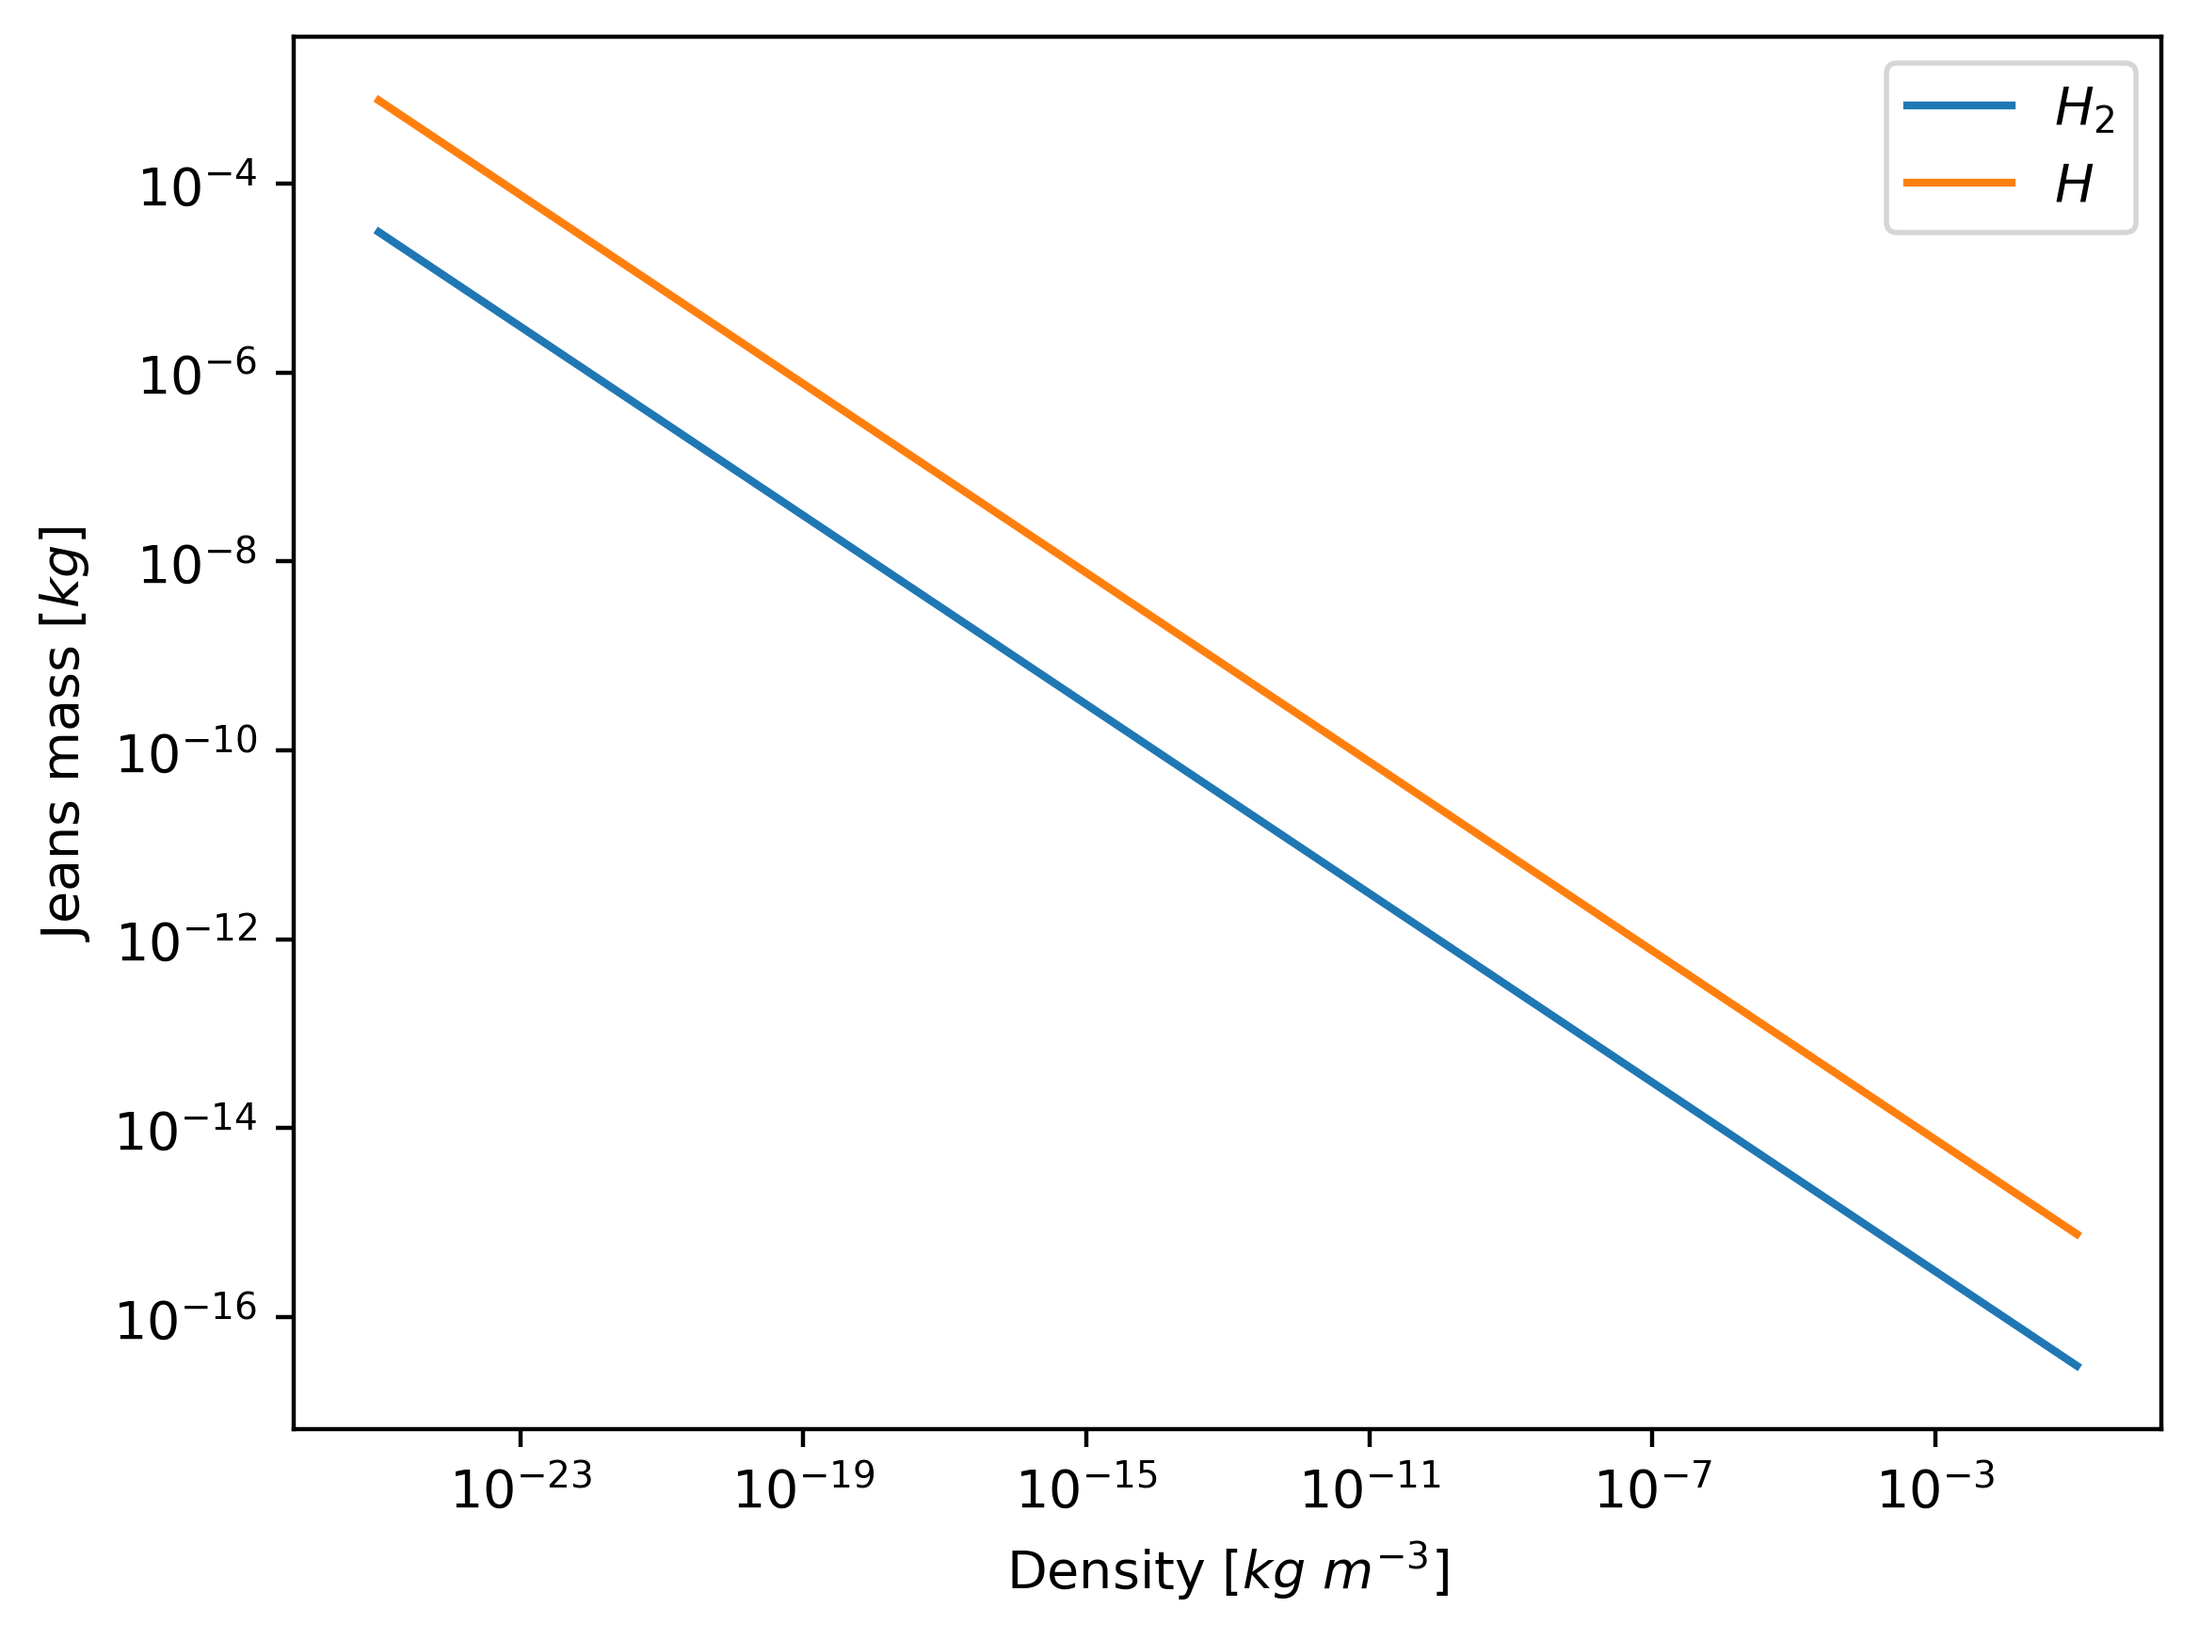
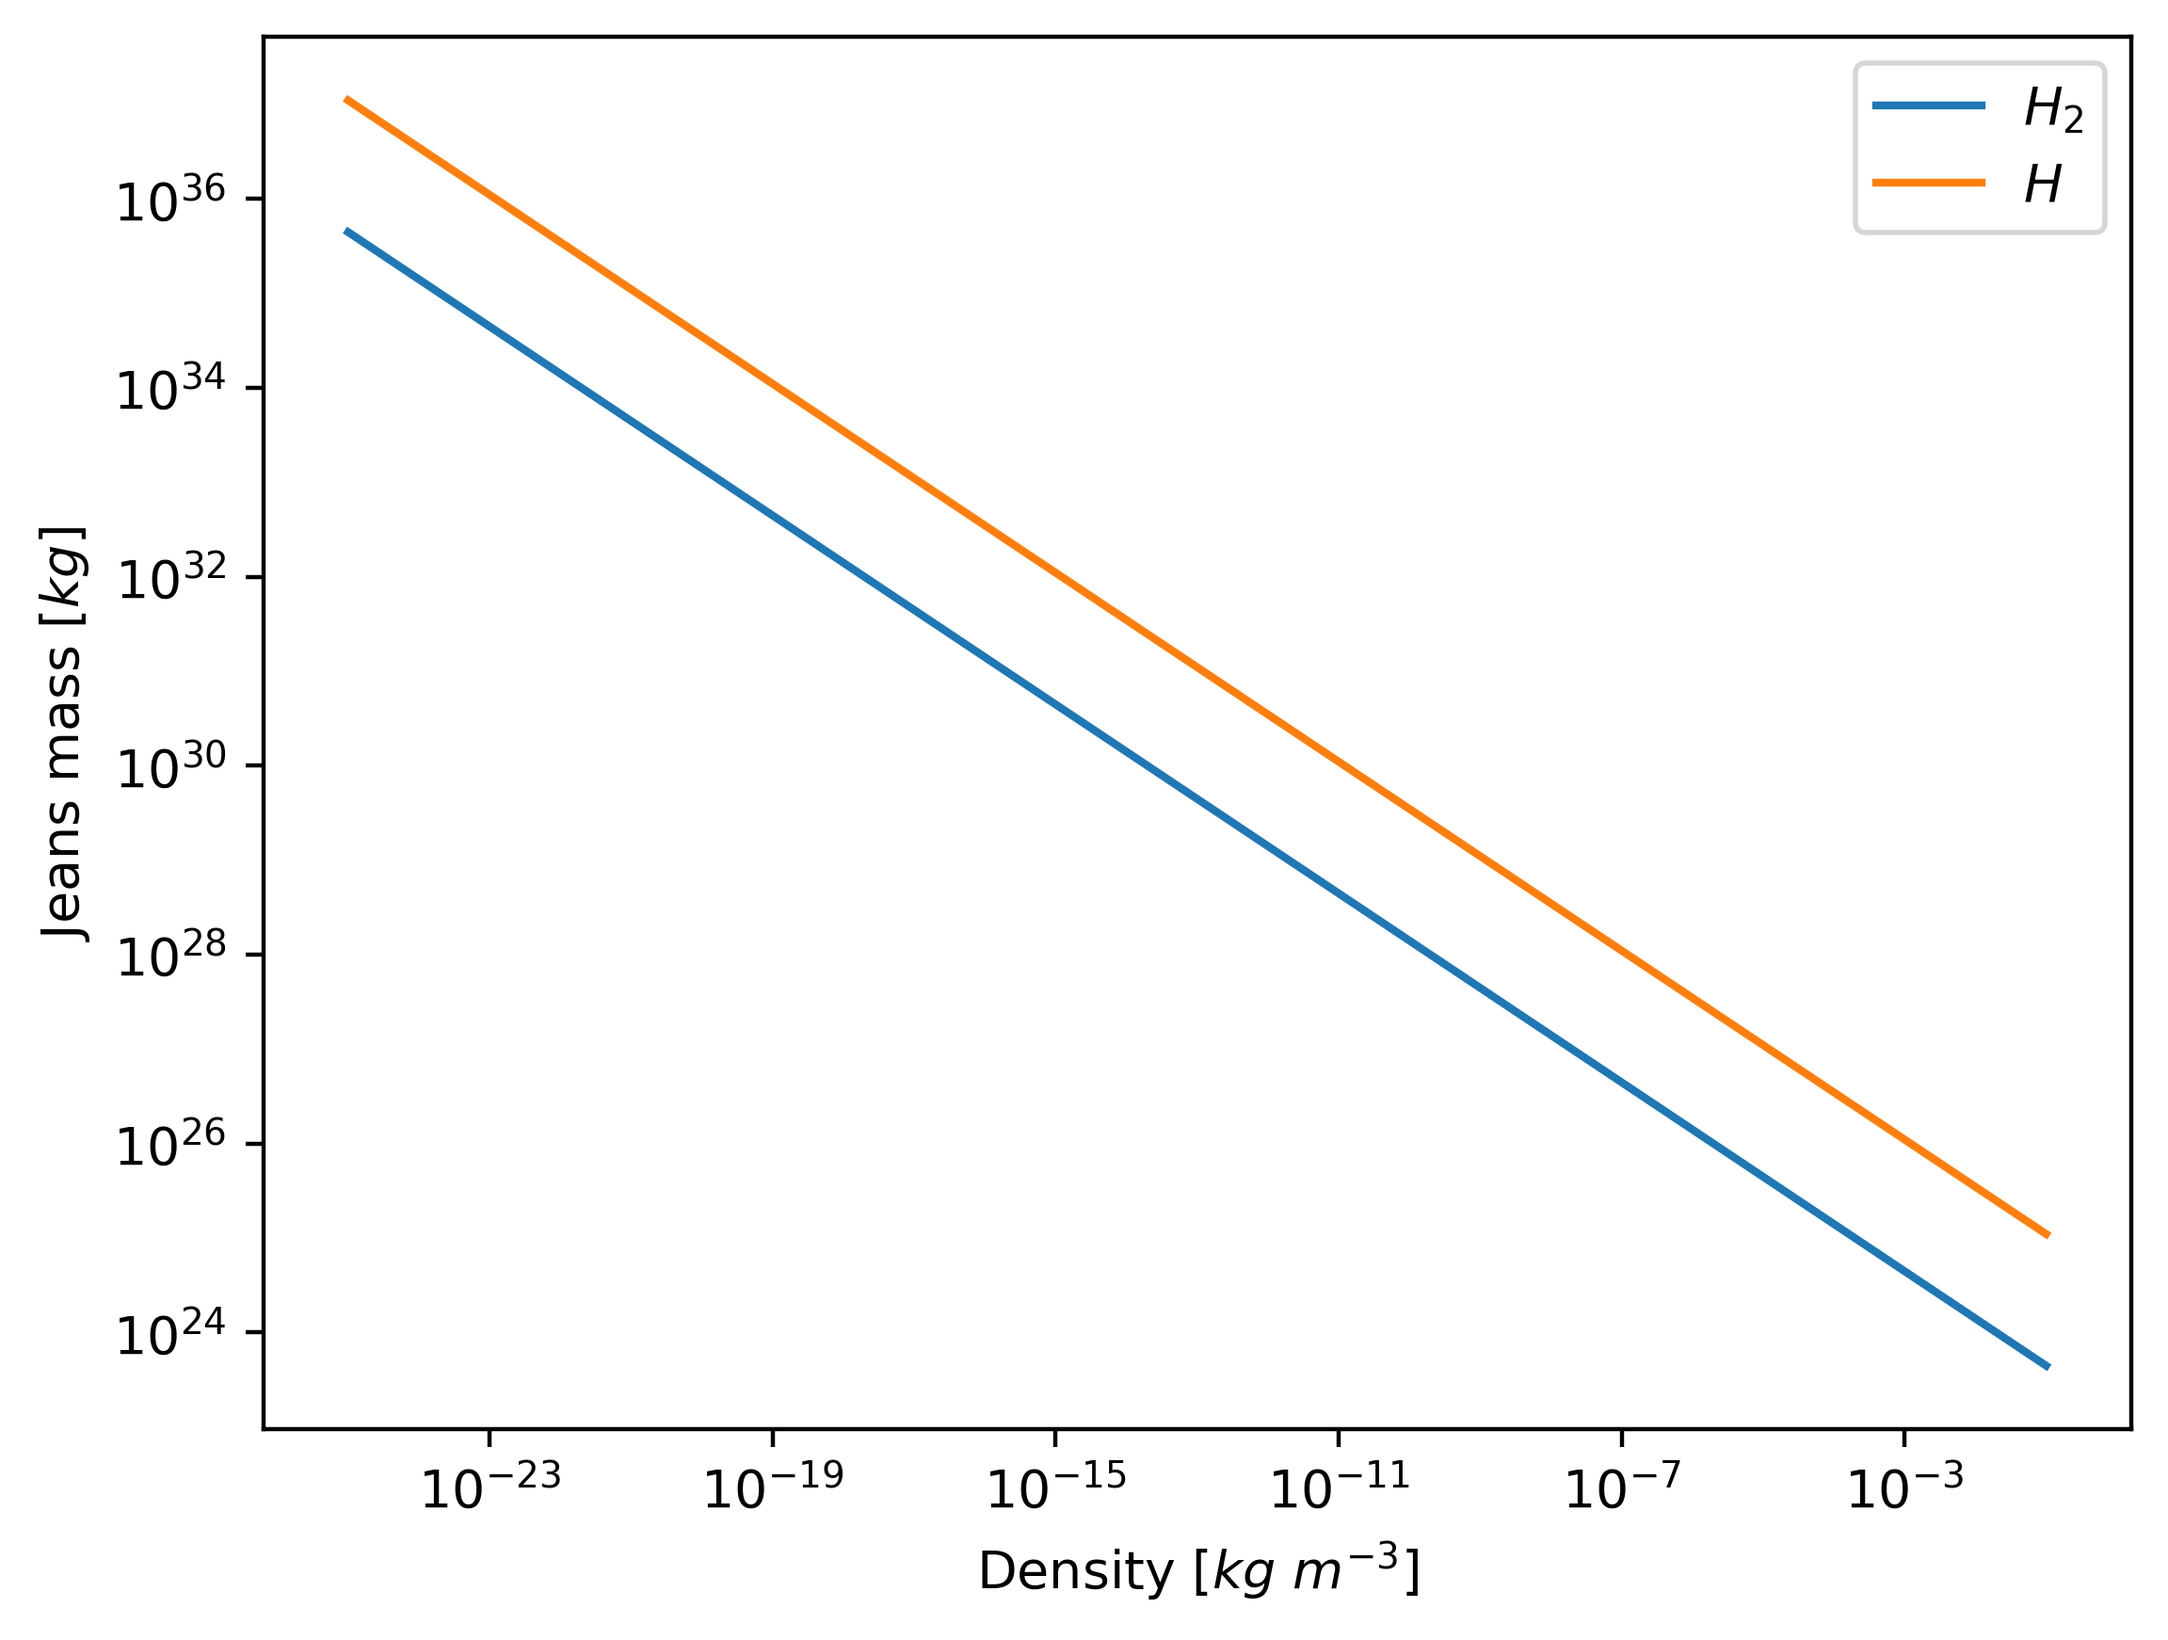
Fixed mistakes in the code after corrections

diff --git a/ex1/sf1.py b/ex1/sf1.py
@@ -25,11 +25,11 @@ Cloud 2: Neutral Hydrogen, T=100K and density 1e-23 g/cm^3
 1: What is the Jeans Radius and the corresponding Jeans mass for each cloud?
 """
 T_1=20
-mu_1=2.38*const.u
+mu_1=2.38
 rho_1=1e-15 #kg/m^3
 
 T_2=100
-mu_2=1.4*const.u
+mu_2=1.4
 rho_2=1e-20 #kg/m^3
 
 #Critical density of 1e-13 g/cm^3
@@ -40,7 +40,7 @@ rho_crit=1e-10 #g/cm^3
 #Function to calculate the Isothermal sound speed from the temperature and mean molecular weight.
 #Physical constants taken from astropy.constants package in SI units. Returns sound speed in m/s.
 def sound_speed(T,mu):
-    y=np.sqrt(const.k_B*T/mu*const.m_p)
+    y=np.sqrt(const.k_B*T/(mu*const.m_p))
     return y
 
 #Function to calculate the jeans radius and the jeans mass.
